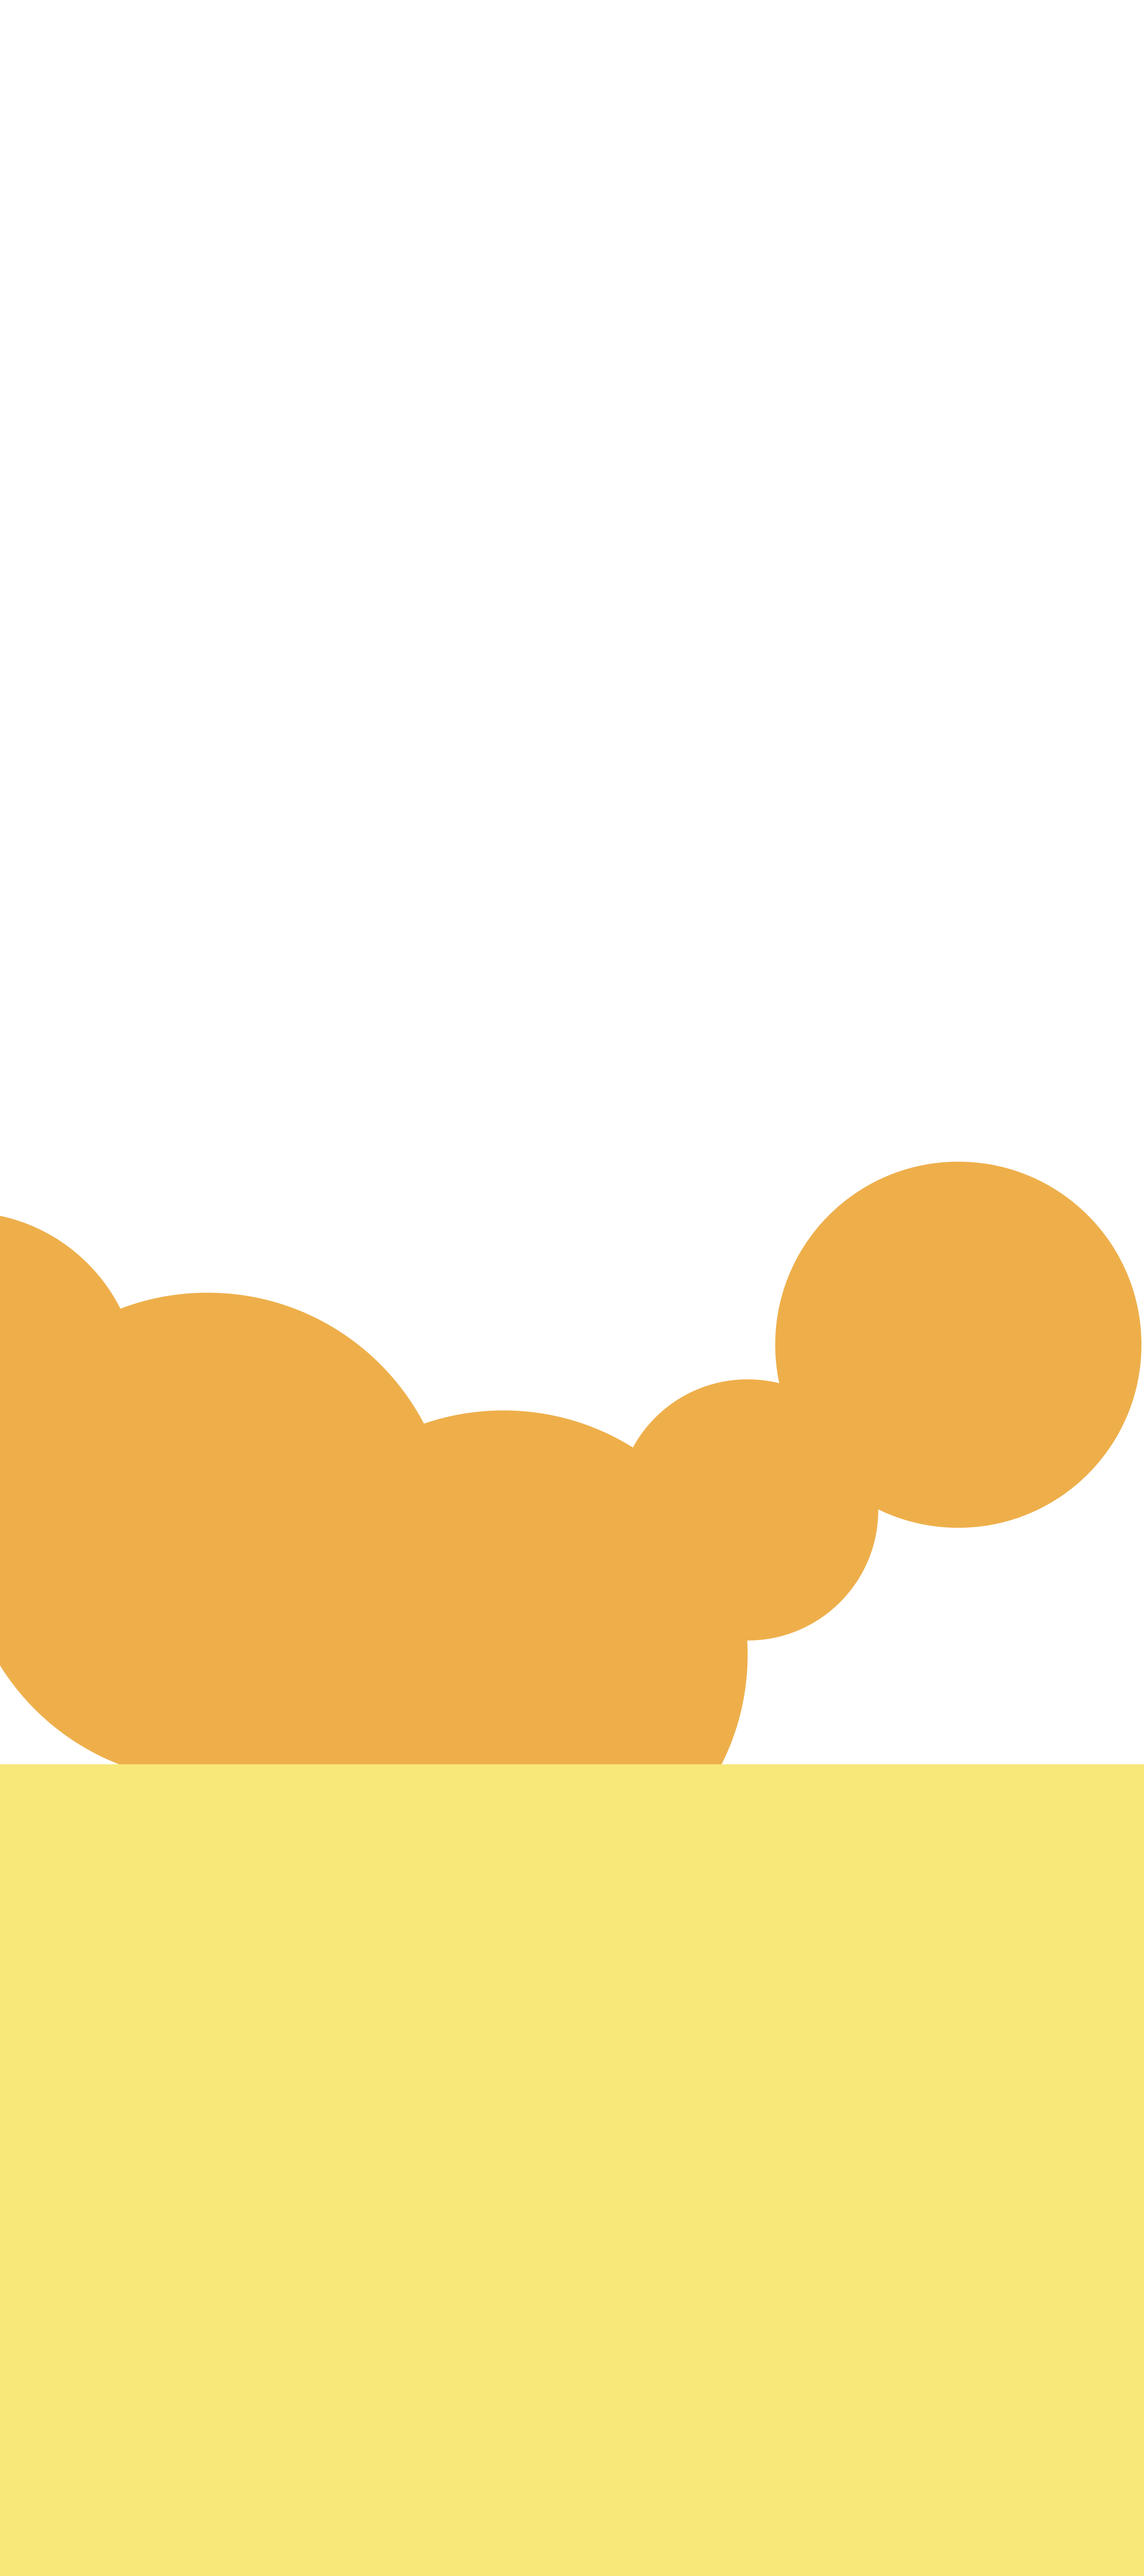
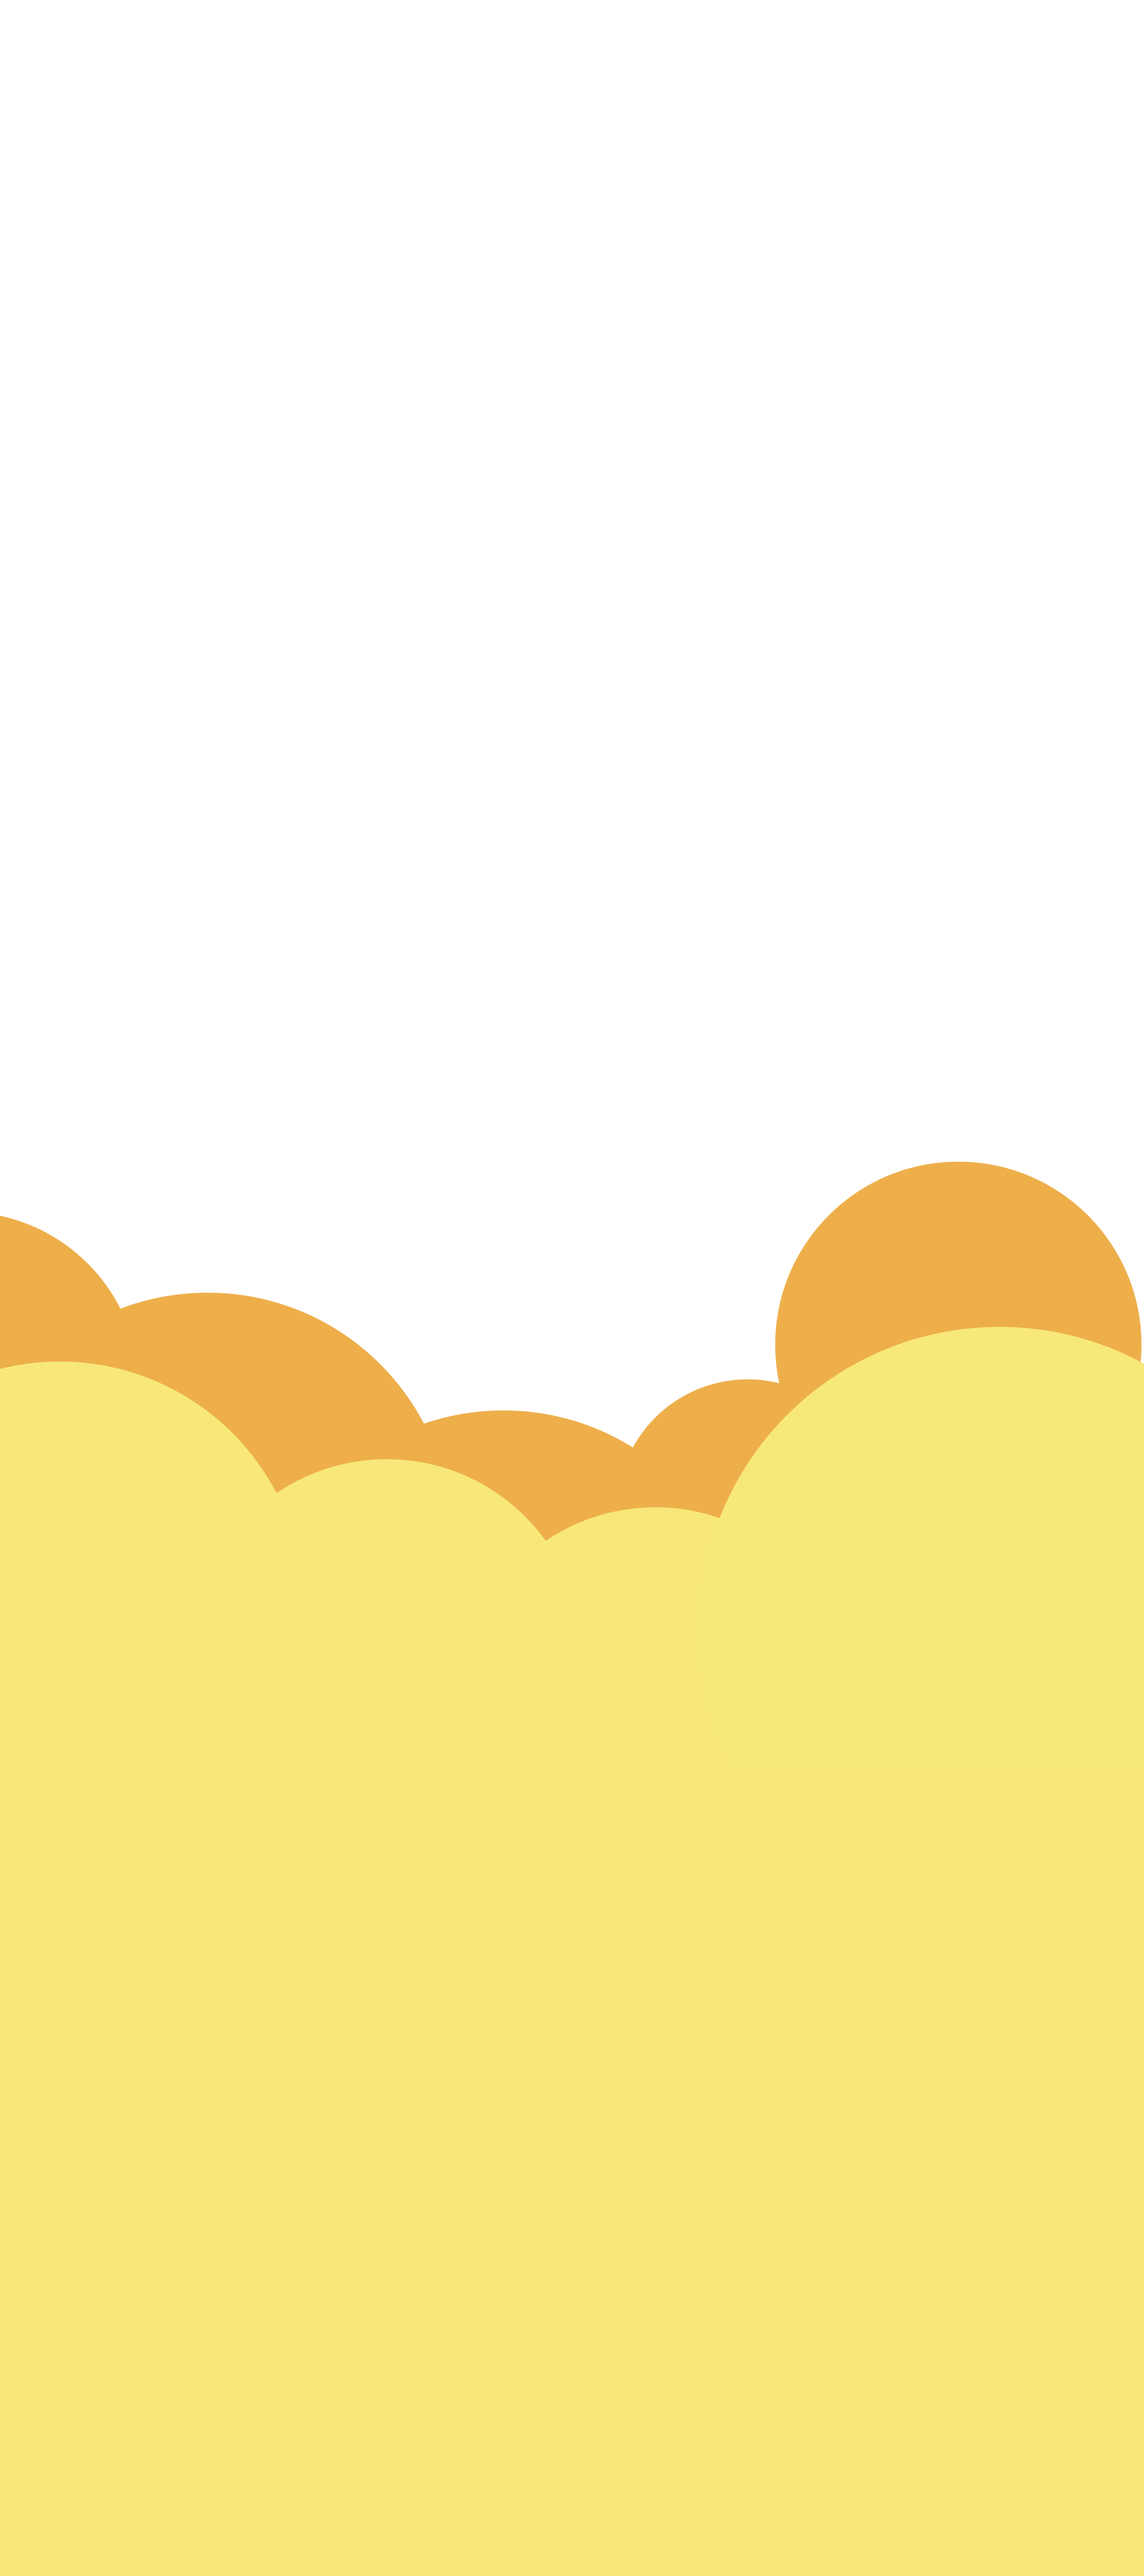
优化摇一摇动画性能

Changed region(s): [[0.0, 0.4989, 1.0, 0.686]]

diff --git a/js/yao1yao.js b/js/yao1yao.js
@@ -43,6 +43,11 @@ function deviceMotionHandler(eventData) {
     }
 }
 
+setTimeout(function () {
+    document.querySelector(".myCover").setAttribute('class', 'myCover animated fadeOut');
+    StartMyPage();
+},5000);
+
 function StartMyPage() {
     setTimeout(function () {
         document.querySelector(".myCover").style.display = 'none';
@@ -62,11 +67,11 @@ function StartMyPage() {
                         setTimeout(function () {
                             document.querySelector(".myCircle2").setAttribute('class', 'myAbsolute myCircle2 animated bounceIn');
                             document.querySelector(".my66red2").setAttribute('class', 'myBGImg3 my66red2 animated zoomInDown');
+                            document.querySelector(".myBGImg2").setAttribute('class', 'myBGImg myBGImg2 animated backgroundUp');
                             setTimeout(function () {
                                 document.querySelector(".myCircle4").setAttribute('class', 'myBGImg3 myCircle4 animated bounceInUp');
-                                document.querySelector(".myBGImg2").setAttribute('class', 'myBGImg myBGImg2 animated backgroundUp');
+                                document.querySelector(".myBGImg1").setAttribute('class', 'myBGImg myBGImg1 animated backgroundUp');
                                 setTimeout(function () {
-                                    document.querySelector(".myBGImg1").setAttribute('class', 'myBGImg myBGImg1 animated backgroundUp');
                                     document.querySelector(".jiangliBg").setAttribute('class', 'myAbsolute jiangliBg animated bounceInUp ');
                                 }, 100)
                             }, 200);

diff --git a/css/yao1yao.css b/css/yao1yao.css
@@ -156,25 +156,25 @@ ul li{
 
 @-webkit-keyframes backgroundUp {
     from {
-        -webkit-transform: translateY(0);
-        transform: translateY(0);
+        -webkit-transform: translate3d(0,0,0);
+        transform: translate3d(0,0,0);
     }
 
     to {
-        -webkit-transform: translateY(-10vw);
-        transform: translateY(-10vw);
+        -webkit-transform: translate3d(0,-10vw,0);
+        transform: translate3d(0,-10vw,0);
     }
 }
 
 @keyframes backgroundUp {
     from {
-        -webkit-transform: translateY(0);
-        transform: translateY(0);
+        -webkit-transform: translate3d(0,0,0);
+        transform: translate3d(0,0,0);
     }
 
     to {
-        -webkit-transform: translateY(-10vw);
-        transform: translateY(-10vw);
+        -webkit-transform: translate3d(0,-10vw,0);
+        transform: translate3d(0,-10vw,0);
     }
 }
 

diff --git a/yao1yao.html b/yao1yao.html
@@ -8,7 +8,6 @@
     <link rel="stylesheet" href="css/yao1yao.css">
 </head>
 <body>
-<img src="img/BG02.png" alt="背景图2" class="myBGImg myBGImg2 disNone">
 <div class="mybackground">
     <img src="img/88红包.png" class="myAbsolute my88red1 disNone">
     <img src="img/圆钱.png" class="myAbsolute myCircle1 disNone">
@@ -41,6 +40,7 @@
 <div class="myCover">
 </div>
 <img src="img/BG01.png" alt="背景图1" class="myBGImg myBGImg1 disNone">
+<img src="img/BG02.png" alt="背景图2" class="myBGImg myBGImg2 disNone">
 </body>
 <script src="js/yao1yao.js"></script>
 </html>
